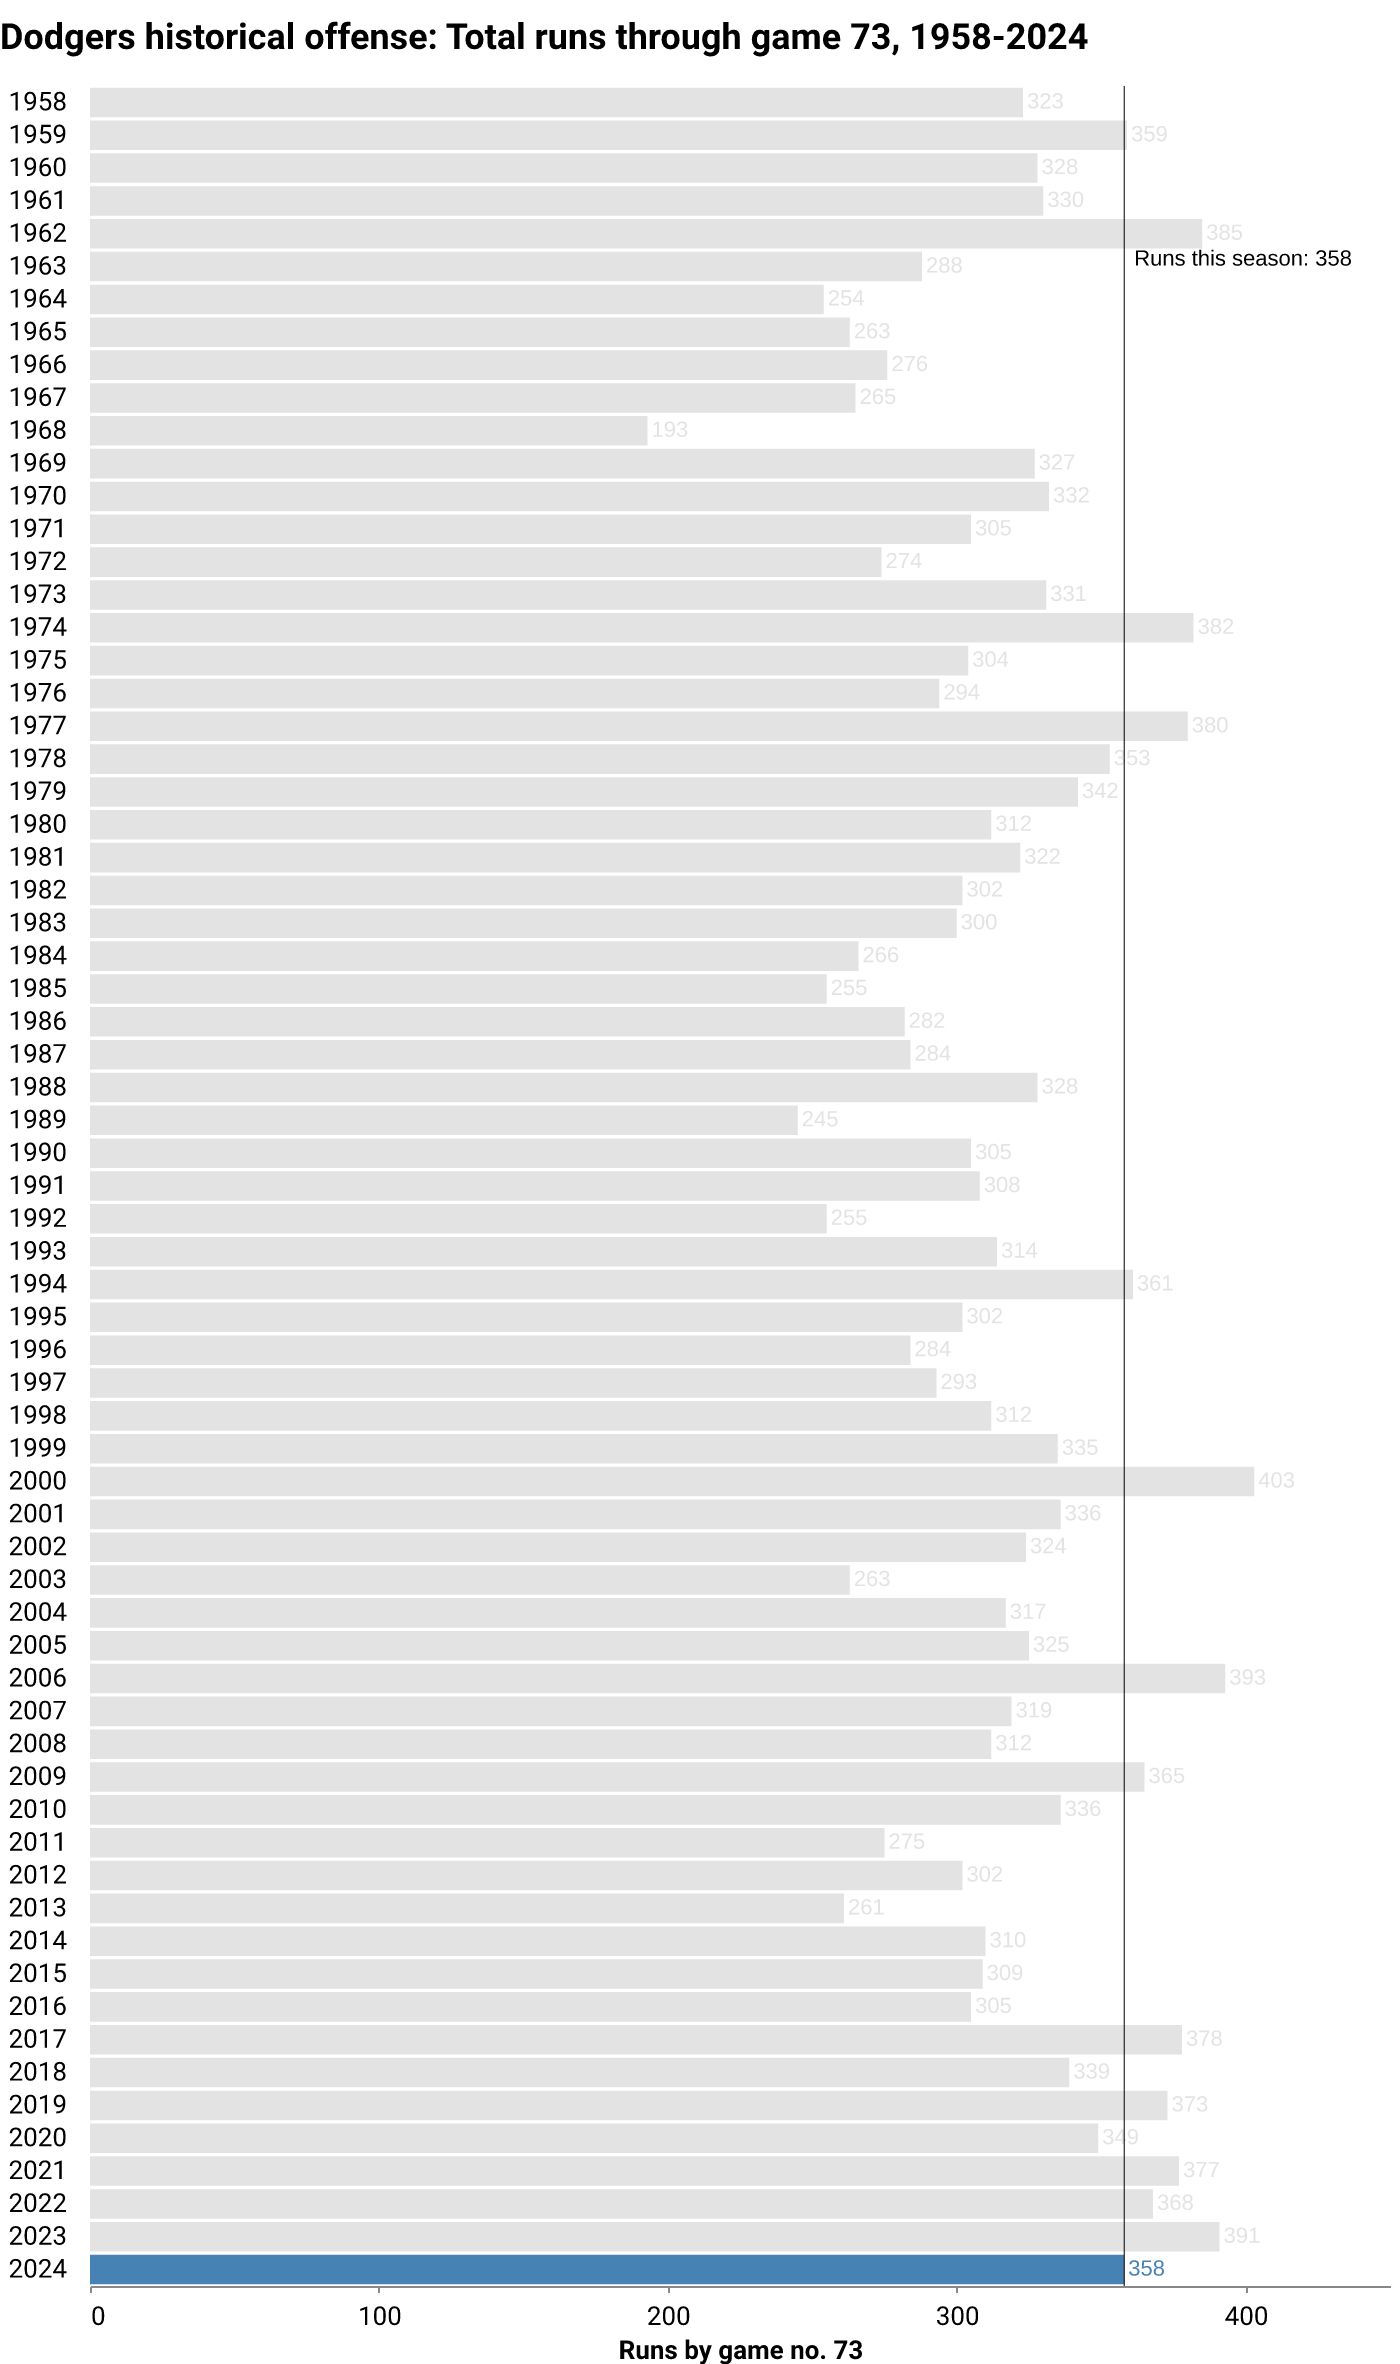
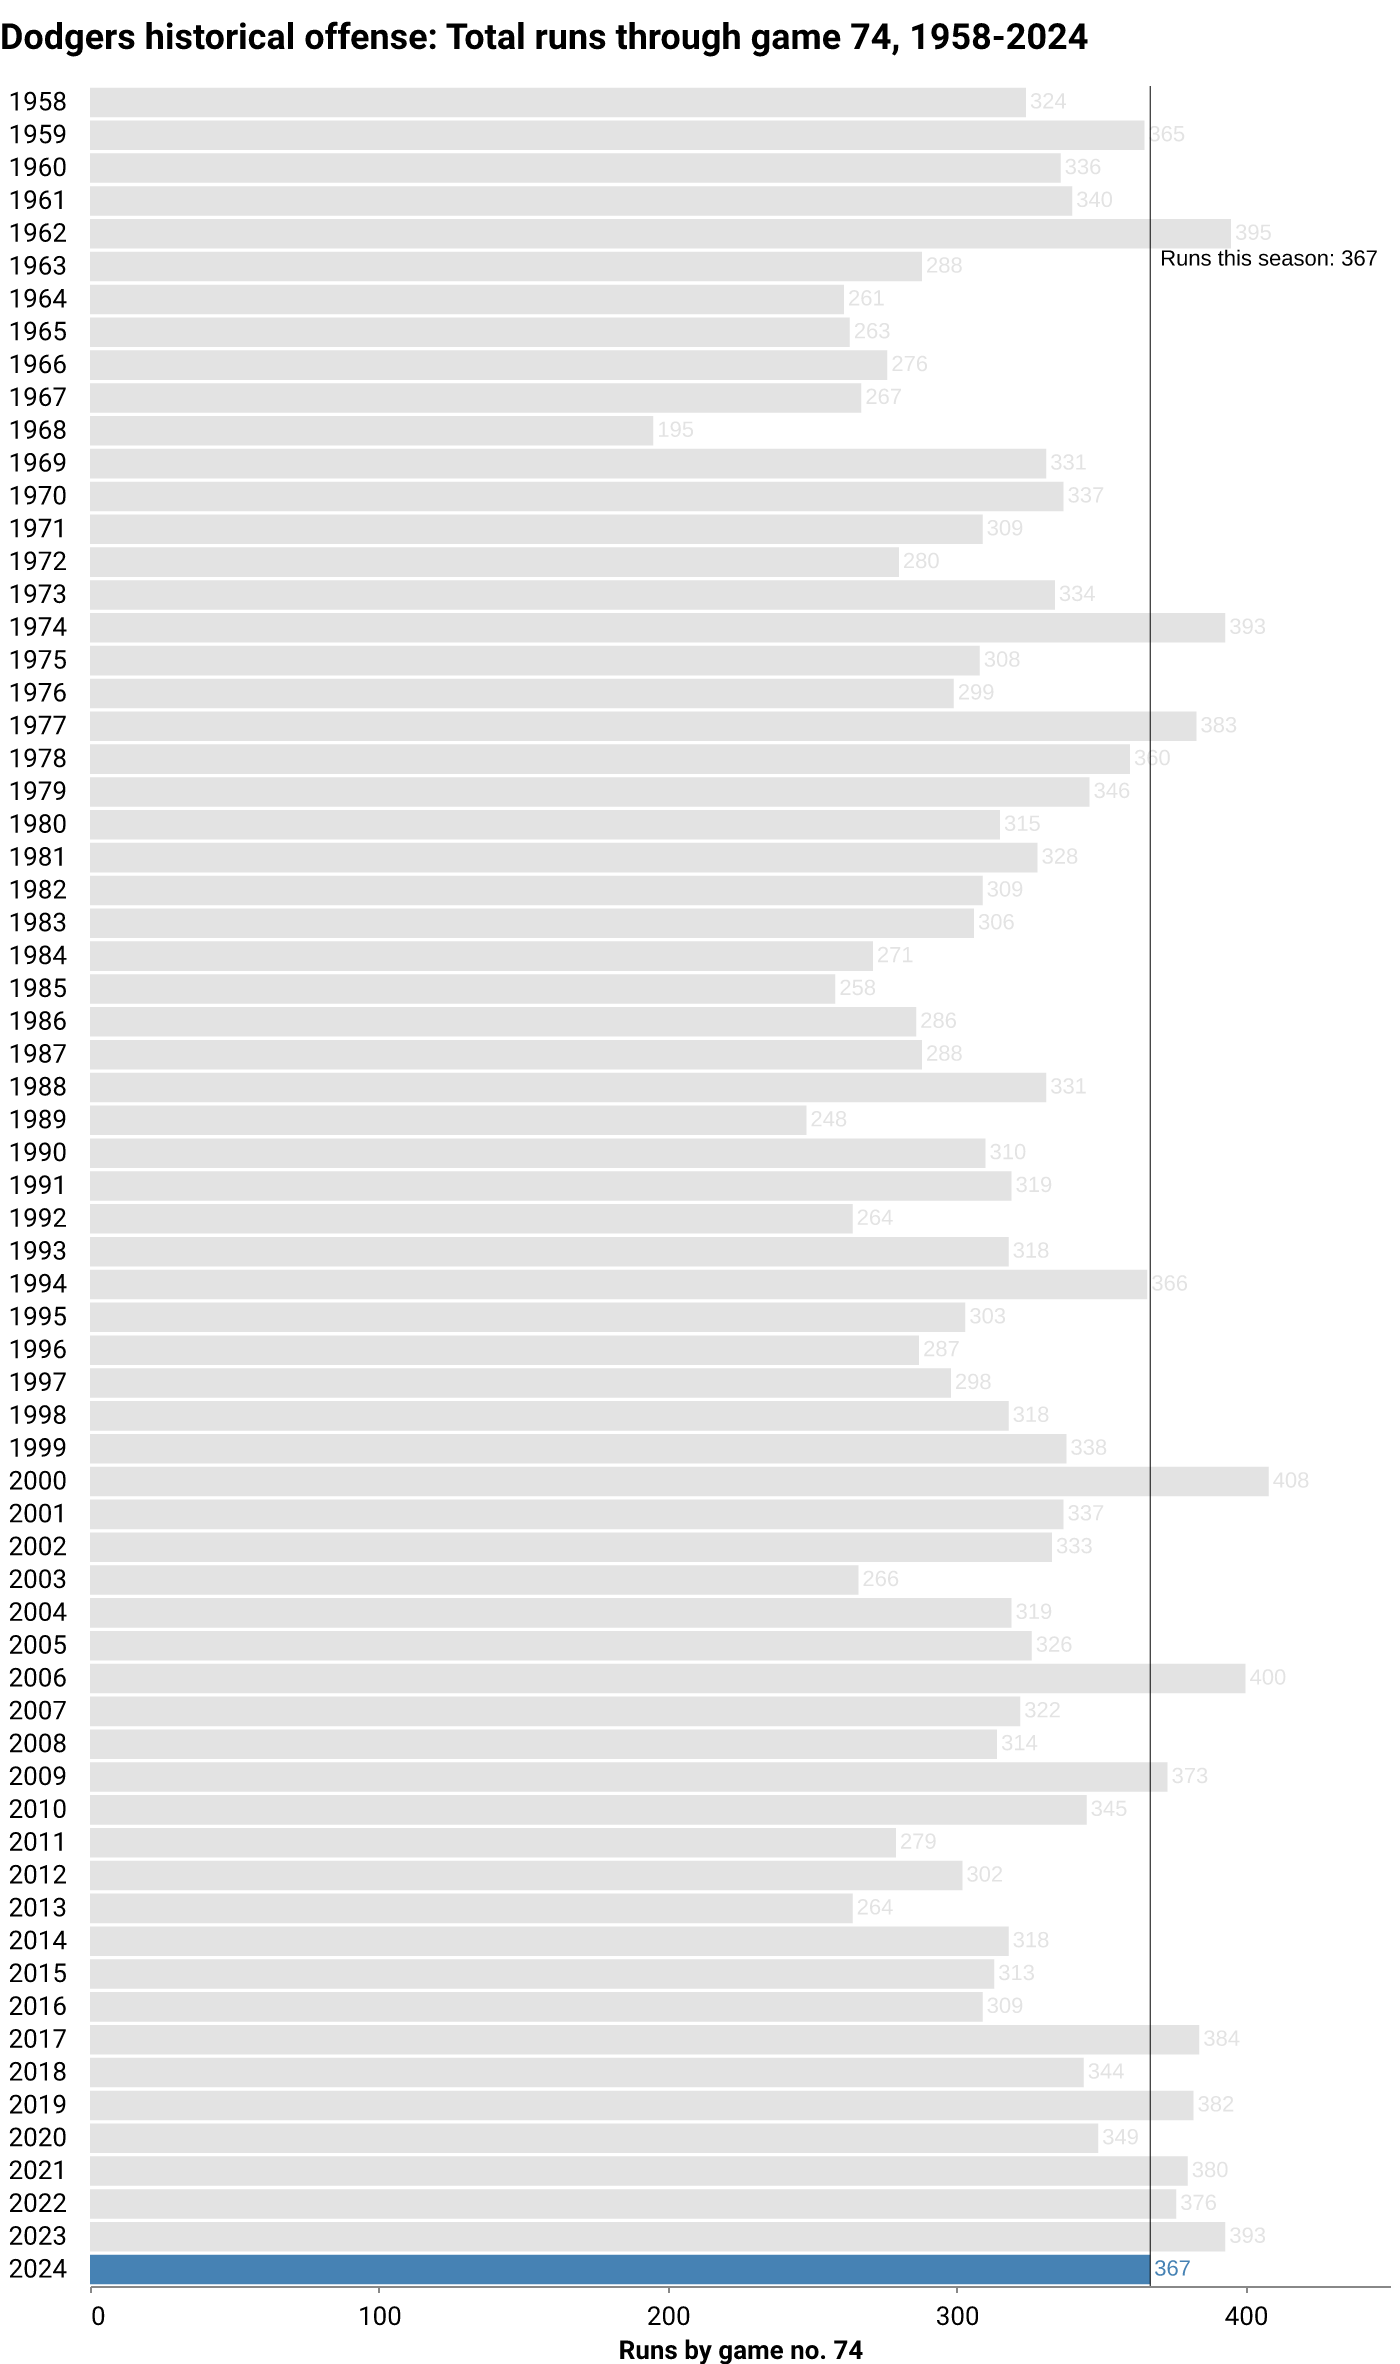
deploy: 07ce775db0725bd11225e2a2d82fb2d0762b69bd

diff --git a/index.html b/index.html
@@ -184,7 +184,7 @@
 <p class="subhead">
     
     
-    <span class="highlight">LOS ANGELES</span> <span class="updated">(June 18)</span> — After <span class="highlight">73</span> games this season, the Dodgers are in <span class="highlight">1st</span> place in the National League West division. The team has compiled a <span class="highlight">44-29</span> record, winning <span class="highlight">60%</span> of its games so far. The last game was a <span class="highlight">3-0</span> home <span class="highlight">win</span> against the Kansas City Royals in front of <span class="highlight">52,789</span> fans. They've won <span class="highlight">6 of the last 10</span>.
+    <span class="highlight">LOS ANGELES</span> <span class="updated">(June 18)</span> — After <span class="highlight">74</span> games this season, the Dodgers are in <span class="highlight">1st</span> place in the National League West division. The team has compiled a <span class="highlight">45-29</span> record, winning <span class="highlight">61%</span> of its games so far. The last game was a <span class="highlight">9-5</span> away <span class="highlight">win</span> against the Colorado Rockies in front of <span class="highlight">32,021</span> fans. They've won <span class="highlight">6 of the last 10</span>.
 </p>
 </div>
 
@@ -206,10 +206,10 @@
             Wins
           </div>
           <div class="card-body">
-            <p class="card-text">44</p>
+            <p class="card-text">45</p>
           </div>
           <div class="card-footer text-muted">
-        This point last season: 40
+        This point last season: 41
           </div>
         </div>
       </div>
@@ -238,10 +238,10 @@
             Record
           </div>
           <div class="card-body">
-            <p class="card-text">44-29</p>
+            <p class="card-text">45-29</p>
           </div>
           <div class="card-footer text-muted">
-        This point last season: 40-33
+        This point last season: 41-33
           </div>
         </div>
       </div>
@@ -254,7 +254,7 @@
             Win percentage
           </div>
           <div class="card-body">
-            <p class="card-text">60%</p>
+            <p class="card-text">61%</p>
           </div>
           <div class="card-footer text-muted">
         This point last season: 55%
@@ -270,7 +270,7 @@
             Games up/back
           </div>
           <div class="card-body">
-            <p class="card-text">8.0</p>
+            <p class="card-text">8.5</p>
           </div>
           <div class="card-footer text-muted">
         Division rank: 1
@@ -302,7 +302,7 @@
             Runs
           </div>
           <div class="card-body">
-            <p class="card-text">358</p>
+            <p class="card-text">367</p>
           </div>
           <div class="card-footer text-muted">
         League rank: 1
@@ -318,7 +318,7 @@
             Runs against
           </div>
           <div class="card-body">
-            <p class="card-text">257</p>
+            <p class="card-text">262</p>
           </div>
           <div class="card-footer text-muted">
         This point last season: 347
@@ -334,10 +334,10 @@
             Run differential
           </div>
           <div class="card-body">
-            <p class="card-text">101</p>
+            <p class="card-text">105</p>
           </div>
           <div class="card-footer text-muted">
-        This point last season: 44
+        This point last season: 46
           </div>
         </div>
       </div>
@@ -408,7 +408,7 @@
             Batting average
           </div>
           <div class="card-body">
-            <p class="card-text">.255</p>
+            <p class="card-text">.256</p>
           </div>
           <div class="card-footer text-muted">
         Last decade average: .253
@@ -440,7 +440,7 @@
             Home runs/game
           </div>
           <div class="card-body">
-            <p class="card-text">1.34</p>
+            <p class="card-text">1.32</p>
           </div>
           <div class="card-footer text-muted">
         Last decade average: 1.36
@@ -456,7 +456,7 @@
             On-base percentage
           </div>
           <div class="card-body">
-            <p class="card-text">.334</p>
+            <p class="card-text">.337</p>
           </div>
           <div class="card-footer text-muted">
         Last decade average: .332
@@ -472,7 +472,7 @@
             Stolen bases
           </div>
           <div class="card-body">
-            <p class="card-text">44</p>
+            <p class="card-text">45</p>
           </div>
           <div class="card-footer text-muted">
         League rank: 8
@@ -488,7 +488,7 @@
             Stolen bases/game
           </div>
           <div class="card-body">
-            <p class="card-text">0.6</p>
+            <p class="card-text">0.61</p>
           </div>
           <div class="card-footer text-muted">
         Rate all last season: 0.65
@@ -598,10 +598,10 @@
             Strikeouts
           </div>
           <div class="card-body">
-            <p class="card-text">628</p>
+            <p class="card-text">637</p>
           </div>
           <div class="card-footer text-muted">
-        League rank: 3
+        League rank: 4
           </div>
         </div>
       </div>
@@ -614,7 +614,7 @@
             Walks
           </div>
           <div class="card-body">
-            <p class="card-text">215</p>
+            <p class="card-text">216</p>
           </div>
           <div class="card-footer text-muted">
         League rank: 5
@@ -630,7 +630,7 @@
             ERA
           </div>
           <div class="card-body">
-            <p class="card-text">3.26</p>
+            <p class="card-text">3.28</p>
           </div>
           <div class="card-footer text-muted">
         League rank: 2
@@ -708,7 +708,7 @@
     </div>
 </div>
 
-  <p class="dated">Notes: Last updated June 18, 2024, 12:03 AM PT. More <a href="https://github.com/stiles/dodgers/blob/main/README.md">about the data</a>.</p>
+  <p class="dated">Notes: Last updated June 18, 2024, 4:03 AM PT. More <a href="https://github.com/stiles/dodgers/blob/main/README.md">about the data</a>.</p>
   
 </div>
 
